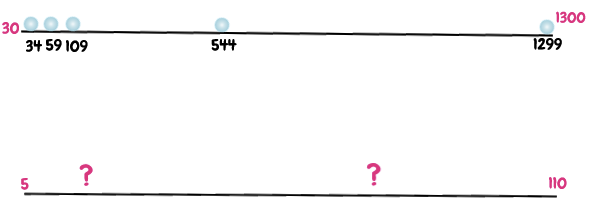
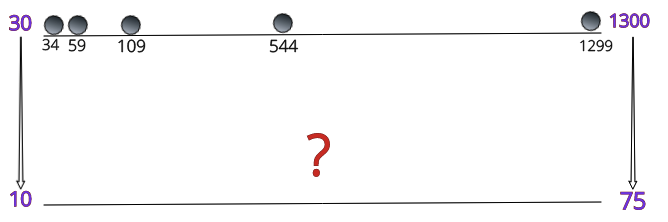
Rebuilding site Thu Sep 10 15:20:22 EDT 2020

Changed region(s): [[0.0, 0.0288, 0.9966, 0.9519], [0.453, 0.5769, 0.5134, 0.8077]]

diff --git a/content/en/blog/2020-09-07-how-to-understand-d3-scales.html b/content/en/blog/2020-09-07-how-to-understand-d3-scales.html
@@ -1,44 +1,129 @@
 ---
-title: How to Understand D3 Scales
+title: How to Understand D3.js Scales
 author: Hongtao Hao
 date: '2020-09-07'
 slug: d3-scales
-categories: []
-tags: []
+output:
+  blogdown::html_page:
+    toc: true
+    toc_depth: 2
 ---
 
 
+<div id="TOC">
+<ul>
+<li><a href="#why-bother-using-d3-scales-couldnt-we-plot-it-directly">Why Bother Using D3 Scales? Couldn’t We Plot It Directly?</a></li>
+<li><a href="#what-are-input-domain-and-output-range">What are Input Domain and Output Range?</a></li>
+<li><a href="#how-do-the-input-domain-and-output-range-work">How do the input domain and output range work?</a></li>
+<li><a href="#d3-scales-do-not-cpature-relative-length">D3 Scales Do Not Cpature Relative Length</a></li>
+<li><a href="#how-does-d3.scalelinear-work">How does d3.scaleLinear() work?</a></li>
+<li><a href="#what-does-d3.scalelinear-preserve">What Does d3.scaleLinear() Preserve?</a></li>
+<li><a href="#how-to-maintain-relative-length">How to Maintain Relative Length?</a></li>
+<li><a href="#closing-words">Closing Words</a></li>
+<li><a href="#other-resourses">Other resourses</a></li>
+</ul>
+</div>
 
+<hr />
 <p>Most online tutorial on D3 scales, at best do not get the point, and at worst are really misleading.</p>
 <p>Before I move on, I’d like to specify two most important points I realized about D3 scales:</p>
 <ol style="list-style-type: decimal">
 <li><p>The essence of D3 scales is <strong><em>interpolation</em></strong> between two known points;</p></li>
-<li><p>D3 scales are supposed to capture <strong><em>relative positions</em></strong>, not <strong><em>absolute values</em></strong>.</p></li>
+<li><p>D3 scales are supposed to capture <strong><em>relative positions</em></strong>, not <strong><em>relative length</em></strong>.</p></li>
 </ol>
 <div id="why-bother-using-d3-scales-couldnt-we-plot-it-directly" class="section level2">
 <h2>Why Bother Using D3 Scales? Couldn’t We Plot It Directly?</h2>
 <p>Well, the thing is, sometimes the numbers are so big that we don’t have enough pixels to plot them directly.</p>
-<p>For example, suppose we have this dataset, [34, 59, 109, 544, 1299], and we are going to <strong>plot a bar chart of this data</strong>. It would be best if we can draw it directly: five bars whose height (in pixels) is equal to the corresponding data value. The first bar will be 34 px tall, the second 59 px … and the last 1299 px. For this dataset, it might be Okay to plot it this way. However, if we had another number, 999999, it would be impossible to draw a bar whose height is <code>999999px</code> simply because we don’t have such a big screen. That’s why we need to input domain and output range, both of which are basically intervals.</p>
+<p>For example, suppose we have this dataset, [34, 59, 109, 544, 1299], and we are going to <strong>plot a bar chart of this data</strong>. It would be best if we can draw it directly: five bars whose height (in pixels) is equal to the corresponding data value. The first bar will be 34 px tall, the second 59 px … and the last 1299 px. For this dataset, it might be Okay to plot it this way. However, if we had another number, 999999, it would be impossible to draw a bar whose height is <code>999999 px</code> simply because we don’t have such a big screen. That’s why we need to input domain and output range, both of which are basically intervals.</p>
 </div>
 <div id="what-are-input-domain-and-output-range" class="section level2">
 <h2>What are Input Domain and Output Range?</h2>
 <p>The input domain can be anything, as long as the minimum and the maximum number in our dataset is included in this interval. Note that the start of the input domain <strong>does not have to</strong> be <span class="math inline">\(0\)</span>. For the above dataset, let’s sat the input domain to be [30, 1300].</p>
-<p>Then what is an output range? Well, it can be anything too. Usually the output range is defined by the pixels we have. Let’s say our screen is only 120 pixels in height, and we set the output range to be [5, 110]. Again, the starting point of the output range does not have be <span class="math inline">\(0\)</span>.</p>
+<p>Then what is an output range? Well, it can be anything too. Usually the output range is defined by the pixels we have. Let’s say our screen is only 80 pixels in height, and we set the output range to be [10, 75]. Again, the starting point of the output range does not have be <span class="math inline">\(0\)</span>.</p>
 </div>
 <div id="how-do-the-input-domain-and-output-range-work" class="section level2">
 <h2>How do the input domain and output range work?</h2>
 <p>What we are certain now is that the minimum (the starting point) in the input domain should also be the minimum (the starting point) of the output range. The same is for the maximum (the finishing point).</p>
-<p>That is to say, <span class="math inline">\(30\)</span> =&gt; <span class="math inline">\(5\)</span>, and <span class="math inline">\(1300\)</span> =&gt; <span class="math inline">\(110\)</span>.</p>
+<p>That is to say, <span class="math inline">\(30\)</span> in the input domain becomes <span class="math inline">\(10\)</span> in the output range, and <span class="math inline">\(1300\)</span> in the input domain becomes <span class="math inline">\(75\)</span> in the output range.</p>
 <p>The situation here is depicted in the figure below:</p>
-<p><img src="/media/enblog/d3_scale_02.png" /></p>
+<p><img src="/media/enblog/d3_scale_01.png" /></p>
 <p>The question is, what are the corresponding values of <span class="math inline">\(34\)</span>, <span class="math inline">\(59\)</span>, <span class="math inline">\(109\)</span>, and <span class="math inline">\(544\)</span>?</p>
-<p>We can solve this problem by drawing a coordinate, with the X-axis representing the input domain and the Y-axis representing the output range.</p>
+<p>We can solve this problem by drawing a coordinate, with the X-axis representing the input domain and the Y-axis representing the output range. Why? Because as we can see from the transformations from input domain to output range, the relationship can be expressed as</p>
+<p><span class="math display">\[y = function (x)\]</span></p>
+<p>where <span class="math inline">\(y\)</span> is values in the output range and <span class="math inline">\(x\)</span> represent values in the input domain.</p>
 <div class="figure" style="text-align: center"><span id="fig:input-output-mapping"></span>
 <img src="/en/blog/2020-09-07-how-to-understand-d3-scales_files/figure-html/input-output-mapping-1.png" alt="Mapping from input domain to output range" width="672" />
 <p class="caption">
 Figure 1: Mapping from input domain to output range
 </p>
 </div>
-<p>The two points we are certain are the orange one, which is [30, 5], and the blue one, which is [1300, 110]. Then the “mapping” is essentially we trying to interpolate from the orange point to the blue point. As we can see from Figure <a href="#fig:input-output-mapping">1</a> that there are so many different possible ways to interpolate between the two points.</p>
-<p>In our situation, we should</p>
+<p>The two points we are certain are the orange one, which is [30, 10], and the blue one, which is [1300, 75]. Then the “mapping” is essentially we trying to interpolate from the orange point to the blue point. As we can see from Figure <a href="#fig:input-output-mapping">1</a> that there are so many different ways to interpolate between the two points.</p>
+<p>In our situation, we should use the linear interpolation. Why? Sorry that I cannot explain mathematically here. I can only explain intuitively. In our example above, there is a “shrinkage” from the input domain to the output range. However, this transformation is linear. A linear transformation can be expressed as</p>
+<p><span class="math display">\[y = mx + b\]</span></p>
+<p>Simple math will let us know that for out example here, <span class="math inline">\(m = 0.051, b = 8.465\)</span>.</p>
+</div>
+<div id="d3-scales-do-not-cpature-relative-length" class="section level2">
+<h2>D3 Scales Do Not Cpature Relative Length</h2>
+<p>Okay. Let’s plot the bars now.</p>
+<div class="figure" style="text-align: center"><span id="fig:no-relative-length"></span>
+<img src="/en/blog/2020-09-07-how-to-understand-d3-scales_files/figure-html/no-relative-length-1.png" alt="D3 scales do not cpature relative length" width="672" />
+<p class="caption">
+Figure 2: D3 scales do not cpature relative length
+</p>
+</div>
+<p>The first impression would be that it’s relatively Okay, since the two seem to be comparable. However, if you look closer, you’ll find that on the original scale, the input domain, the third bar is around 3 times taller than the first bar. However, on the transformed scale, the output range, the third bar is only twice as tall as the first. The relative height is not maintained, and therefore, the two results are not comparable.</p>
+<p>“D3 scales sucks”, you might say. “What was Mike Bostock thinking? D3 scales did not preserve comparability between the two results and they are misleading!”.</p>
+<p>Well, it’s actually our fault rather than D3 scales’. Before I explain how come that the two results are not comparable and how to avoid that, let me talk about how D3’s <code>scaleLinear()</code> works.</p>
+</div>
+<div id="how-does-d3.scalelinear-work" class="section level2">
+<h2>How does d3.scaleLinear() work?</h2>
+<p><a href="https://www.dashingd3js.com/d3js-scales">This tutorial</a> very well explains how <code>d3.scaleLinear()</code> works. I’ll recap it here.</p>
+<p>Suppose the following is the input domain. The starting point is labeled as S and the end E. There are three data points, i.e., A, B, C. The distance between S and A is a, that between A and B is b, that between B and C is c, and that between C and E is d. Then, how will <code>d3.scaleLinear()</code> compute the corresponding value for data point A, B and C in the output range?</p>
+<p><img src="/media/enblog/d3_scale_five_points.png" /></p>
+<p>Let’s say Data point A will become Data point <span class="math inline">\(A&#39;\)</span> in the output range. <code>d3.scaleLinear()</code> will get the value of <span class="math inline">\(A&#39;\)</span> this way: First, it computes the proportion of the distance between A and the starting point, to the length, or range, of the entire input domain. This proportion will be <span class="math inline">\(\frac{a}{a+b+c+d}\)</span>. Let’s denote the starting point in the output range as S’, and the length of the output range as <span class="math inline">\(L&#39;\)</span>, then <span class="math inline">\(A&#39;\)</span> is <span class="math inline">\(L&#39; * \frac{a}{a+b+c+d}\)</span> away from S`.</p>
+</div>
+<div id="what-does-d3.scalelinear-preserve" class="section level2">
+<h2>What Does d3.scaleLinear() Preserve?</h2>
+<p>Now that we know how <code>d3.scaleLinear()</code> transform data from the input domain to the output range, let’s think about what does this transformation preserve.</p>
+<p>Let’s normalize both the input domain and the output range. That is, we imagine that the length of the input domain and the output range is both <span class="math inline">\(1\)</span> unit. Then, let’s divide both intervals into 100 parts. If point <span class="math inline">\(A\)</span> in input domain sits right on the dividing line of the 2nd and the 3rd part, then, in the output range, <span class="math inline">\(A&#39;\)</span> will also sit on the dividing line of the 2nd and the 3rd part. Right? That’s why we say that D3 scales preserves <strong>relative positions</strong> of data points.</p>
+<p>This property will be super useful in coordinates, for example, when we are plotting scatter plots.</p>
+<p><img src="/media/enblog/d3_scale_relative_position.png" /></p>
+<p>For example, we have <span class="math inline">\(A\)</span>, <span class="math inline">\(B\)</span>, and <span class="math inline">\(C\)</span>. The left is the three dots plotted using their original data values in the input domain, and on the right is the corresponding three dots plotted using the linearly transformed data values in the output range. The input domain is [5,95] for the X-axis, and [9, 17] for the Y-axis, and the output range is [3,9] for the X-axis, and [100, 900] for the Y-axis.</p>
+<p>Let’s say the coordinate of <span class="math inline">\(A\)</span> is <span class="math inline">\((35, 11)\)</span> and that of <span class="math inline">\(B\)</span> is <span class="math inline">\((50, 15)\)</span>. If we understand how linear transformation is done by <code>d3.scaleLinear()</code>, we’ll know that the coordinate of <span class="math inline">\(A&#39;\)</span> is <span class="math inline">\((5, 300)\)</span> and that of <span class="math inline">\(B&#39;\)</span> is <span class="math inline">\((6, 700)\)</span>.</p>
+<p>We can see that <code>d3.scaleLinear()</code> does not preserve relative length. <span class="math inline">\(\frac{x_a}{x_b} = \frac{7}{10}\)</span>, but <span class="math inline">\(\frac{x_(a&#39;)}{x_(b&#39;)} = \frac{5}{6}\)</span>. Then, what does <code>d3.scaleLinear()</code> preserve? <strong>Relative positions</strong>, as we discussed above.</p>
+<p>How is relative positions maintained here?</p>
+<p>In the input domain:</p>
+<p><span class="math display">\[x_a = \frac{1}{3} X, y_a = \frac{1}{4} Y\]</span></p>
+<p>In the output range:</p>
+<p><span class="math display">\[x_(a&#39;) = \frac{1}{3} X&#39;, y_(a&#39;) = \frac{1}{4} Y&#39;\]</span></p>
+<p>I won’t list these for <span class="math inline">\(B, B&#39;, C, C&#39;\)</span> here.</p>
+<p>You see, for each data point, the relative coordinate <strong>values</strong> change but its relative <strong>position</strong> to both axes remains the same.</p>
+</div>
+<div id="how-to-maintain-relative-length" class="section level2">
+<h2>How to Maintain Relative Length?</h2>
+<p>Now, let’s go back to our initial problem: the relative length is not preserved after transforming bar heights from the input domain to the output range.</p>
+<p>I asked this question in d3js’s Slack group.</p>
+<p><img src="/media/enblog/d3_scales_slack_my_question.png" /></p>
+<p>Then, Daniel Nass answered this question. Mike Bostock, the creator of D3.js also responded!</p>
+<p><img src="/media/enblog/d3_scales_slack_nass_answer.png" /></p>
+<p><img src="/media/enblog/d3_scales_slack_bostock_answer01.png" /></p>
+<p><img src="/media/enblog/d3_scales_slack_bostock_answer02.png" /></p>
+<p><a href="https://observablehq.com/@d3/bar-chart">Here</a> is the Observable Notebook Mike Bostock was referring to.</p>
+<p>Later, I recapped my understanding and expressed my gratitude.</p>
+<p><img src="/media/enblog/d3_scales_slack_my_thankyou.png" /></p>
+</div>
+<div id="closing-words" class="section level2">
+<h2>Closing Words</h2>
+<p>D3 scales are meant to preserve data’s relative positions to axes and each other (using Daniel Nass’s words), not their relative length. To preserve relative length, we need to set the start of the input domain to be zero, and the start of the output range to be the edge of our chart, as Mike Bostock suggested.</p>
+</div>
+<div id="other-resourses" class="section level2">
+<h2>Other resourses</h2>
+<p>I found these articles on D3 scales helped me a lot, in order of helpfulness:</p>
+<ol style="list-style-type: decimal">
+<li>Chapter 7. Scales of <a href="https://alignedleft.com/work/d3-book-2e">Interactive Data Visualization for the Web, 2nd Ed.</a> by Scott Murray</li>
+<li><a href="http://www.jeromecukier.net/2011/08/11/d3-scales-and-color/">Jerome Cukier’s great page on ‘d3:scales and color’</a>;</li>
+<li><a href="http://jonathansoma.com/tutorials/d3/using-scales/">Using scales</a> by <a href="http://jonathansoma.com/tutorials/d3/using-scales/">Jonathan Soma</a></li>
+<li><a href="https://www.dashingd3js.com/d3js-scales">D3.js Scales</a> on <a href="https://www.dashingd3js.com/">Dashing D3.js</a></li>
+<li><a href="https://github.com/d3/d3-scale">d3-scale official documentation on GitHub</a></li>
+</ol>
 </div>

diff --git a/themes/hugo-xmin/layouts/partials/footer_bookdown.org.html b/themes/hugo-xmin/layouts/partials/footer_bookdown.org.html
@@ -1,0 +1,20 @@
+  <footer>
+  <div class="footer">
+  {{ with .Site.Params.footer }}
+  <div class="copyright">
+  {{ . | markdownify }}
+  </div>
+  {{ end }}
+  <div>
+  {{ range .Site.Menus.icons }}
+  <a href="{{ .URL | relURL }}"><svg viewBox="0 0 16 16"><use xlink:href="#icon-{{ .Post }}"></use></svg></a>
+  {{ end }}
+  </div>
+  </div>
+  </footer>
+  <script async src="{{ "/js/fix-url.js" | relURL }}"></script>
+  <script async src="//yihui.name/js/center-img.js"></script>
+  <script async defer src="//buttons.github.io/buttons.js"></script>
+  <!--{{ template "_internal/google_analytics.html" . }}-->
+  </body>
+</html>

diff --git a/themes/hugo-xmin/archetypes/default.md b/themes/hugo-xmin/archetypes/default.md
@@ -1,5 +1,5 @@
 ---
-title: {{ replace .Name "-" " " | title }}
+title = "{{ replace .TranslationBaseName "-" " " | title }}"
 date: {{ .Date }}
 author:
 slug:
